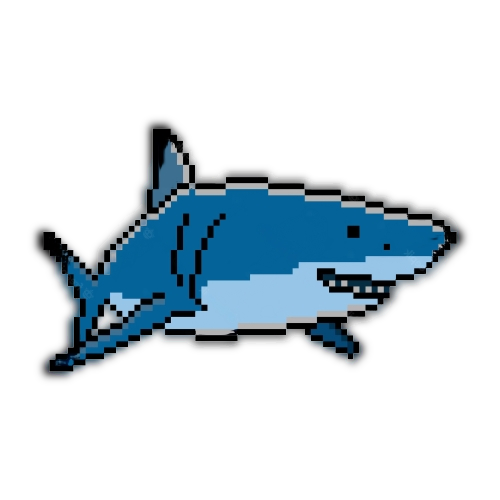
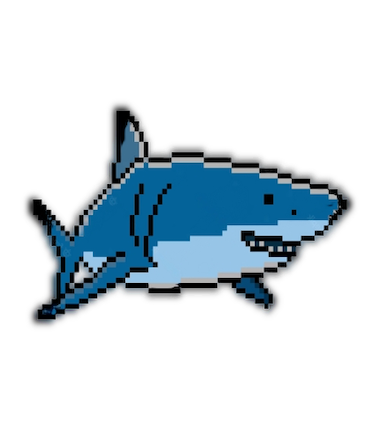
ocean mode progress

diff --git a/Mode.java b/Mode.java
@@ -86,12 +86,12 @@ public class Mode {
     public static Mode oceanMode() {
         Mode m = new Mode();
         m.modeName = "ocean";
-        m.modeBackground = "hellBackground4";
+        m.modeBackground = "oceanBackground";
         m.characterImage = "shark";
         m.boostedImage = "hellSpaceshipBoost";
         m.obstacleImage = "hellSkyscraper";
         m.musicName = "futureMusic";
-        m.boundingBox = new Dimension(240, 150);
+        m.boundingBox = new Dimension(240, 240);
         return m;
     }
 }
